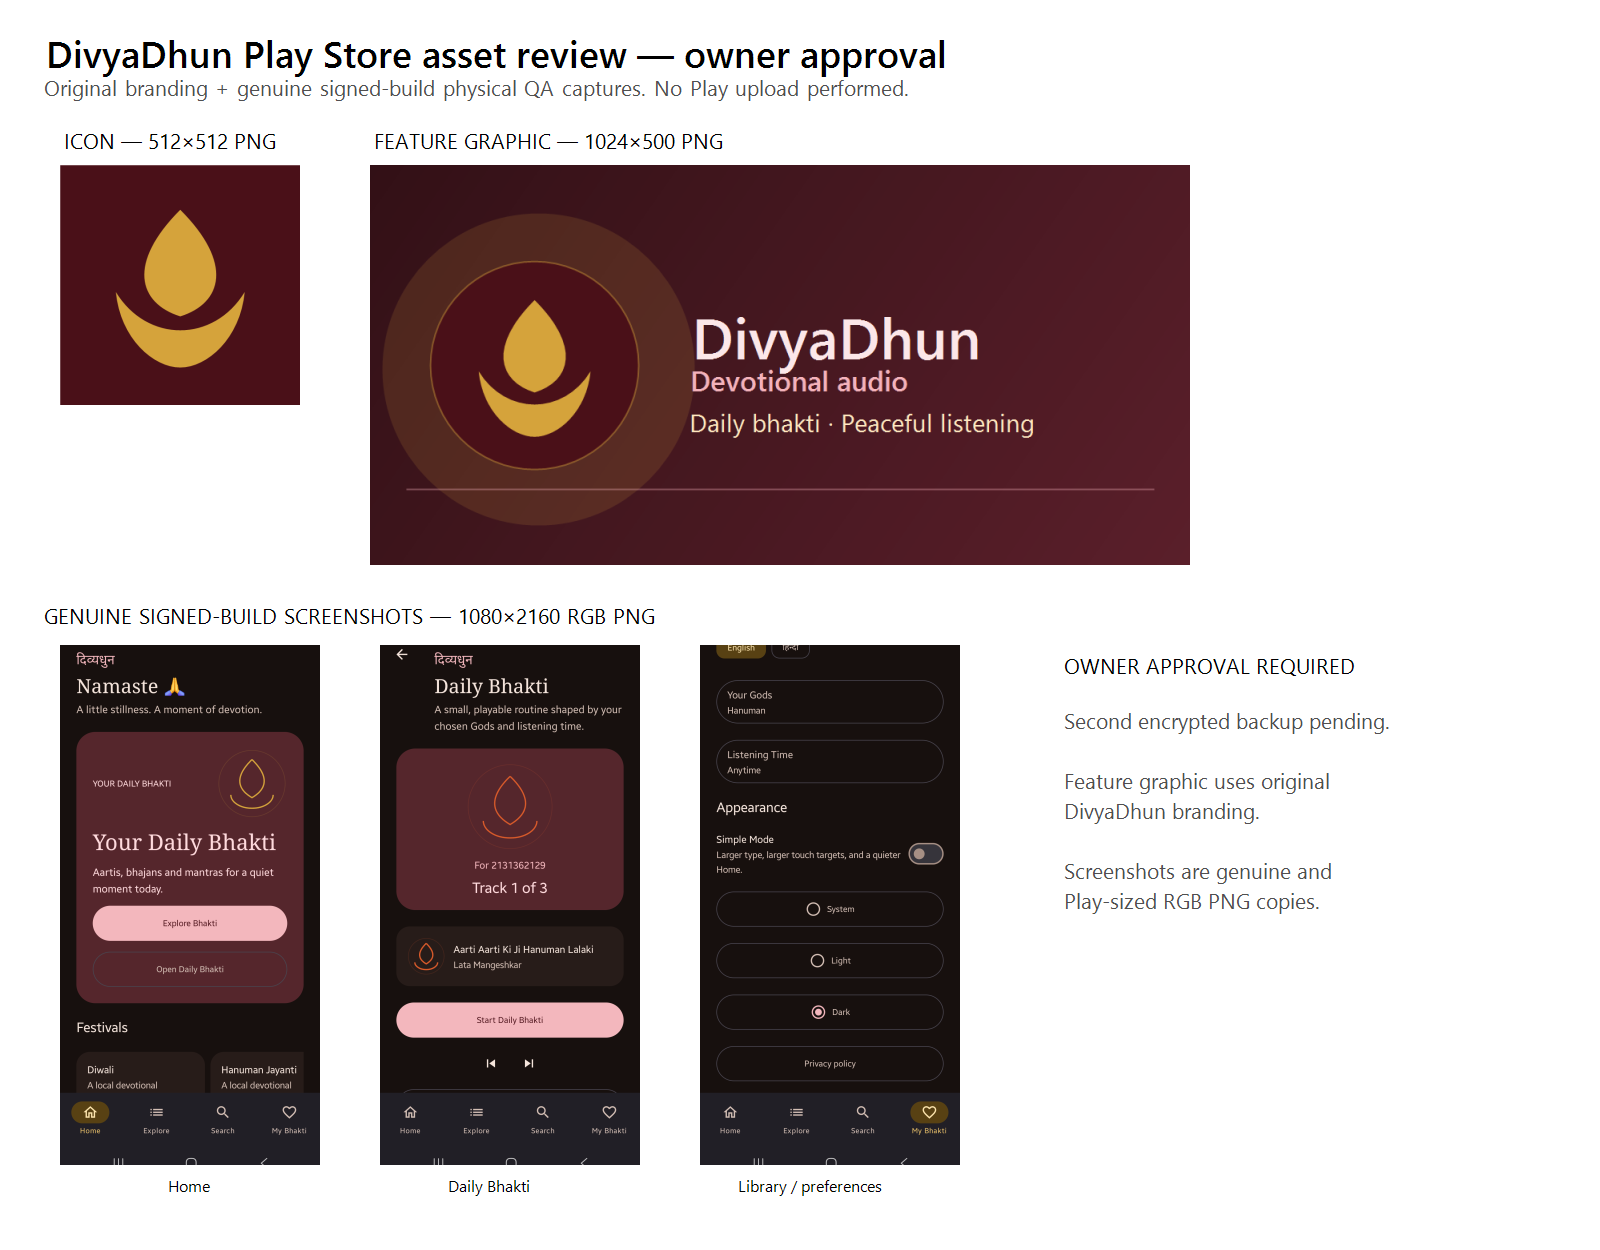
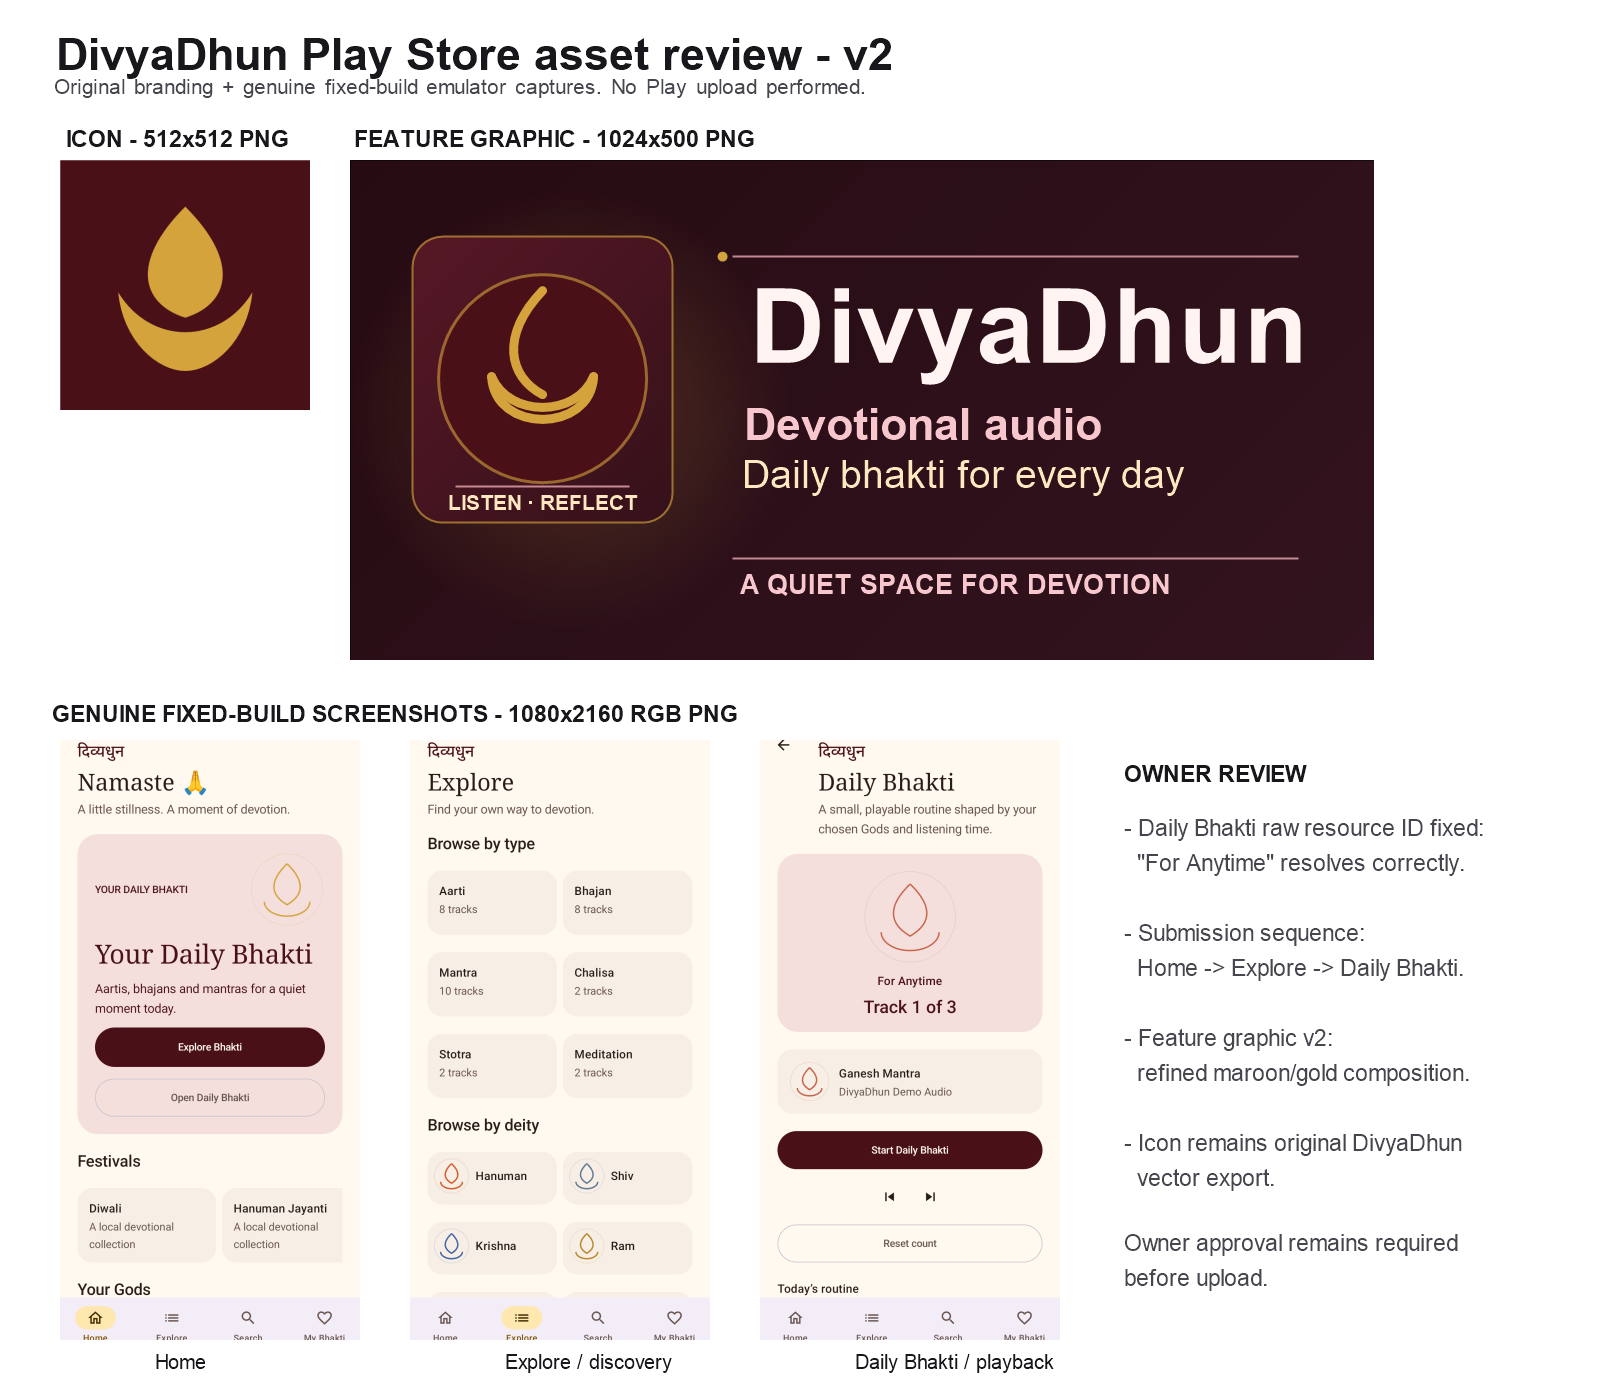
Fix Daily Bhakti label and polish Play assets

diff --git a/app/src/androidTest/java/com/divyadhun/app/ReleaseRegressionLayoutTest.kt b/app/src/androidTest/java/com/divyadhun/app/ReleaseRegressionLayoutTest.kt
@@ -5,6 +5,7 @@ import androidx.compose.ui.test.assertWidthIsAtLeast
 import androidx.compose.ui.test.getBoundsInRoot
 import androidx.compose.ui.test.junit4.createComposeRule
 import androidx.compose.ui.test.onNodeWithTag
+import androidx.compose.ui.test.onNodeWithText
 import androidx.compose.ui.unit.dp
 import androidx.compose.foundation.layout.width
 import com.divyadhun.app.domain.model.AudioSource
@@ -75,6 +76,27 @@ class ReleaseRegressionLayoutTest {
         title.assertIsDisplayed()
         val titleBounds = title.getBoundsInRoot()
         assertTrue("daily title must not grow vertically without bound", titleBounds.bottom - titleBounds.top <= 56.dp)
+    }
+
+    @Test
+    fun dailyBhaktiResolvesListeningTimeLabelInsteadOfShowingResourceId() {
+        val track = longTrack("daily_label")
+        val viewModel = com.divyadhun.app.content.DailyBhaktiViewModel()
+        rule.setContent {
+            DivyaTheme {
+                DailyBhaktiScreen(
+                    viewModel = viewModel,
+                    routine = DailyBhaktiRoutine("label", com.divyadhun.app.domain.model.ListeningTime.ANYTIME, listOf(track.id)),
+                    tracks = listOf(track),
+                    language = Language.ENGLISH,
+                    playbackState = PlaybackState(),
+                    playbackController = null,
+                    onBack = {}
+                )
+            }
+        }
+
+        rule.onNodeWithText("For Anytime").assertIsDisplayed()
     }
 
     private fun longTrack(id: String) = Track(

diff --git a/app/src/main/java/com/divyadhun/app/ui/DailyBhaktiScreens.kt b/app/src/main/java/com/divyadhun/app/ui/DailyBhaktiScreens.kt
@@ -70,7 +70,14 @@ fun DailyBhaktiScreen(
             Surface(color = MaterialTheme.colorScheme.primaryContainer, shape = MaterialTheme.shapes.large) {
                 Column(Modifier.fillMaxWidth().padding(20.dp), verticalArrangement = Arrangement.spacedBy(10.dp), horizontalAlignment = Alignment.CenterHorizontally) {
                     current?.let { TrackArtwork(it, Modifier.size(132.dp)) }
-                    Text(stringResource(R.string.daily_bhakti_for_time, listeningTimeRes(routine)), style = MaterialTheme.typography.titleMedium, color = MaterialTheme.colorScheme.primary)
+                    Text(
+                        stringResource(
+                            R.string.daily_bhakti_for_time,
+                            stringResource(listeningTimeRes(routine))
+                        ),
+                        style = MaterialTheme.typography.titleMedium,
+                        color = MaterialTheme.colorScheme.primary
+                    )
                     Text(stringResource(R.string.routine_progress, state.currentIndex + 1, routineTracks.size), style = MaterialTheme.typography.headlineSmall, modifier = Modifier.testTag("routine_progress"))
                 }
             }

diff --git a/docs/PLAY_STORE_ASSET_PREPARATION.md b/docs/PLAY_STORE_ASSET_PREPARATION.md
@@ -1,6 +1,6 @@
 # Play Store asset preparation
 
-Status: `OWNER_ACTION_REQUIRED`. Original branded assets and compliant screenshot copies are prepared for owner approval; no Play upload was performed.
+Status: `OWNER_ACTION_REQUIRED`. Original branded assets and compliant screenshot copies from the fixed signed release-QA build are prepared for owner approval; no Play upload was performed.
 
 ## Current app icon review
 
@@ -8,29 +8,34 @@ Status: `OWNER_ACTION_REQUIRED`. Original branded assets and compliant screensho
 - It is a 108dp vector used by the app and is not itself the Play Console upload asset.
 - Export an owner-approved 512x512 32-bit PNG with alpha, at most 1024 KB, and review it against Google Play icon policy before upload.
 
+## Fixed Daily Bhakti screenshot finding
+
+- The raw `For 2131362129` text was a genuine app bug, not a screenshot artifact. `listeningTimeNameRes(...)` returns an Android `@StringRes` ID, and the Daily Bhakti composable had passed that integer directly to the formatted string as `%1$s`.
+- The fix resolves the nested string resource before formatting. The new regression test `dailyBhaktiResolvesListeningTimeLabelInsteadOfShowingResourceId` requires `For Anytime`; the fixed signed release-QA capture is `divyadhun-screenshot-daily-bhakti-v2.png`.
+
 ## Required owner assets
 
 - Feature graphic: 1024x500 JPEG or 24-bit PNG without alpha. Keep important branding centered and avoid claims about ranking, price, awards, or unsupported features.
 - Phone screenshots: at least two screenshots across the required device types to publish the listing; use genuine signed-release screens, JPEG or 24-bit PNG without alpha, minimum dimension 320 px, maximum dimension 3840 px, and no dimension more than twice the other.
 - Capture the signed release after production signing and physical QA. Do not use emulator/debug-only states as final evidence, and do not add device frames or promotional text that makes the app look different from the tested build.
-- Suggested truthful sequence: Home, Explore/deity browsing, Search, full player/queue, and Library/preferences with the privacy link. Capture only screens that exist in the signed build.
+- Suggested truthful sequence for this review: Home, Explore/discovery, and Daily Bhakti/playback. Preferences is intentionally omitted because it adds less listing value than the discovery and playback surfaces.
 - Current physical evidence includes `build/physical-qa-remote-daily.png` and `build/physical-qa-remote-privacy-page.png`. The original 1080x2340 captures remain unchanged as QA evidence; compliant copies are listed below.
 
 ## Validation result for current files
 
-- The current QA captures are genuine signed-release phone evidence and visually pass their intended checks, but 1080x2340 is taller than the current Play maximum-dimension ratio of 2:1. Do not upload them unchanged; crop or resize copies to an accepted ratio while retaining the tested UI and without adding promotional claims.
+- The v2 captures are genuine signed release-QA emulator evidence from the fixed application. The earlier Daily Bhakti candidate showed the real UI defect `For 2131362129` and is superseded; it must not be uploaded. The v2 Daily Bhakti capture shows the resolved `For Anytime` label. The original physical QA captures remain evidence but are not used as the final v2 candidate sequence.
 - `app/src/main/res/drawable/ic_brand.xml` is an original DivyaDhun vector source with the existing maroon/gold branding. It is not a Play upload file; export an owner-approved 512x512 32-bit PNG with alpha and keep it at or below 1024 KB.
-- The feature graphic below is original DivyaDhun branding; no copyrighted artwork or unverified devotional imagery was added.
+- The feature graphic below is original DivyaDhun branding; no copyrighted artwork or unverified devotional imagery was added. Version 2 improves safe margins, hierarchy, contrast, and small-preview readability.
 
 ## Prepared approval package
 
 - Icon PNG: `docs/assets/play-store/divyadhun-icon.png` — 512x512, RGBA PNG, 7,794 bytes. Deterministic raster export of the existing `ic_brand.xml` mark.
-- Feature graphic: `docs/assets/play-store/divyadhun-feature-graphic.png` — 1024x500, RGB PNG, 68,808 bytes. Original maroon/gold branding with no rankings, pricing, store badges, or unsupported claims.
-- Genuine signed-build screenshots: `docs/assets/play-store/divyadhun-screenshot-home.png`, `divyadhun-screenshot-daily-bhakti.png`, and `divyadhun-screenshot-library.png` — each 1080x2160 RGB PNG. Cropped copies of latest physical signed-build captures; originals remain under `build/physical-qa-*.png`.
-- Visual review sheet: `docs/assets/play-store/divyadhun-asset-review-sheet.png` — owner-facing composite of the icon, feature graphic, and three screenshots.
+- Feature graphic: `docs/assets/play-store/divyadhun-feature-graphic.png` — 1024x500, RGB PNG. Original maroon/gold branding with no rankings, pricing, store badges, or unsupported claims.
+- Genuine fixed-build screenshots: `divyadhun-screenshot-home-v2.png`, `divyadhun-screenshot-explore-v2.png`, and `divyadhun-screenshot-daily-bhakti-v2.png` — each 1080x2160 RGB PNG. Cropped directly from the signed release-QA app on `emulator-5554`; no text or artwork was painted over.
+- Visual review sheet: `docs/assets/play-store/divyadhun-asset-review-sheet.png` — owner-facing v2 composite of the icon, polished feature graphic, and revised screenshot sequence.
 - SVG provenance sources: `docs/assets/play-store/divyadhun-icon.svg` and `divyadhun-feature-graphic.svg`.
 
-The package is dimension- and pixel-format-validated with FFprobe and visually inspected. Owner approval is still required for branding, listing copy, and rights before upload.
+The package is dimension- and pixel-format-validated with FFprobe and visually inspected. Owner approval is still required for branding, listing copy, rights, and whether emulator captures are acceptable for the final listing before upload.
 
 ## Current official size checks
 

diff --git a/docs/PLAY_STORE_LAUNCH_READINESS.md b/docs/PLAY_STORE_LAUNCH_READINESS.md
@@ -11,13 +11,13 @@ Owner evidence: Aman personally confirmed that audio was audible on the signed r
 | Application identity | PASS | `com.divyadhun.app`, version `1.0.0`, versionCode `1`, min SDK 26, target SDK 37. |
 | Production catalog | PASS | HTTPS remote catalog is configured in the latest signed build; live catalog remains 77 tracks. |
 | Privacy/support | PASS | Physical signed-build tap opened Chrome at `https://amansharma-it5.github.io/divyadhun-privacy/`; support email is `divyadhun.support@gmail.com`. Owner must review policy accuracy before submission. |
-| Signed artifacts | PASS | Latest signed APK/AAB use the expected upload certificate; package/version checks passed. The AAB must be rebuilt with the remote URL before final upload if its timestamp predates this record. |
[1 lines of base64/hex data omitted]
 | Physical QA | PASS — owner-confirmed | Layout, privacy, playback state, and background MediaSession passed on `RZCX623LLJK`; Aman personally confirmed audible playback. The audible result is owner evidence, not independent automated verification. |
 | Data Safety | OWNER ACTION | Engineering draft is based on source/dependency audit; owner must complete and submit the exact Play form. |
 | App access | OWNER ACTION | No account, login, paid wall, or restricted content was found. Owner must select the applicable Play Console answer and provide no access credentials unless the app changes. |
 | Content rating | OWNER ACTION | Complete the IARC questionnaire accurately; do not pre-assign a rating. [Official guidance](https://support.google.com/googleplay/android-developer/answer/9898843?hl=en). |
 | Target audience | OWNER ACTION | Owner must choose the actual intended age groups. Do not infer a Families/children declaration from the devotional subject matter. [Official guidance](https://support.google.com/googleplay/android-developer/answer/9867159?hl=en). |
-| Store listing assets | PENDING / OWNER ACTION | Original icon PNG, 1024x500 feature graphic, and 1080x2160 RGB screenshot copies are prepared and visually reviewed; owner approval and Play upload remain. See `docs/PLAY_STORE_ASSET_PREPARATION.md`. |
+| Store listing assets | PENDING / OWNER ACTION | Original icon PNG, polished 1024x500 feature graphic, and revised 1080x2160 RGB screenshots (Home, Explore, Daily Bhakti) are prepared and visually reviewed; owner approval and Play upload remain. See `docs/PLAY_STORE_ASSET_PREPARATION.md`. |
 | Play App Signing | OWNER ACTION | Enroll during first bundle upload, retain the upload-key recovery path, and keep the second independent encrypted backup pending until verified. Google Drive backup SHA-256 match is owner-confirmed. [Official guidance](https://support.google.com/googleplay/android-developer/answer/9842756?hl=en). |
 | New personal-account testing | BLOCKED/IF APPLICABLE | If the developer account was created after 2023-11-13, complete the required closed test with at least 12 opted-in testers for 14 continuous days before production access. [Official guidance](https://support.google.com/googleplay/android-developer/answer/14151465?hl=en-GB). Account age/type is owner-only. |
 | Device verification | OWNER ACTION/IF APPLICABLE | Complete Play Console device verification if the account flow requests it. [Official guidance](https://support.google.com/googleplay/android-developer/answer/14316361?hl=en). |

diff --git a/docs/PHYSICAL_DEVICE_QA.md b/docs/PHYSICAL_DEVICE_QA.md
@@ -33,7 +33,7 @@ The owner has no spare Android phone. The signed release has passed the document
 
 - The signed `app-release.apk` was installed on clean `emulator-5554` only. Launch, onboarding, live catalog/deity browsing, playback, pause/resume, seek, mini-player, full player, queue/transport state, background service, foreground media notification, MediaSession, screen-off playback state, and emulator network off/on checks passed.
 - A signed `releaseQa` instrumentation variant is enabled with the existing release signing configuration; its test-only Compose host is excluded from the production `release` APK/AAB. The targeted privacy and layout regressions pass on the disposable AVD. This does not replace real-phone QA.
-- The complete signed `releaseQa` connected suite passes on the disposable AVD: 21/21 tests, including production-catalog remote streaming smoke with the live catalog URL supplied. This does not replace real-phone QA.
+- The latest signed `releaseQa` connected run executed 22 tests: 21 passed, including the new Daily Bhakti label regression and all existing UI/flow tests; 1 production-catalog `RemoteStreamingSmokeTest` timed out after 60 seconds on the emulator network path. This is an environment/network failure, not a UI assertion failure, and does not replace real-phone QA.
 - These emulator results do not replace real-phone QA.
 
 ## Physical signed-release results — latest remote-configured APK
